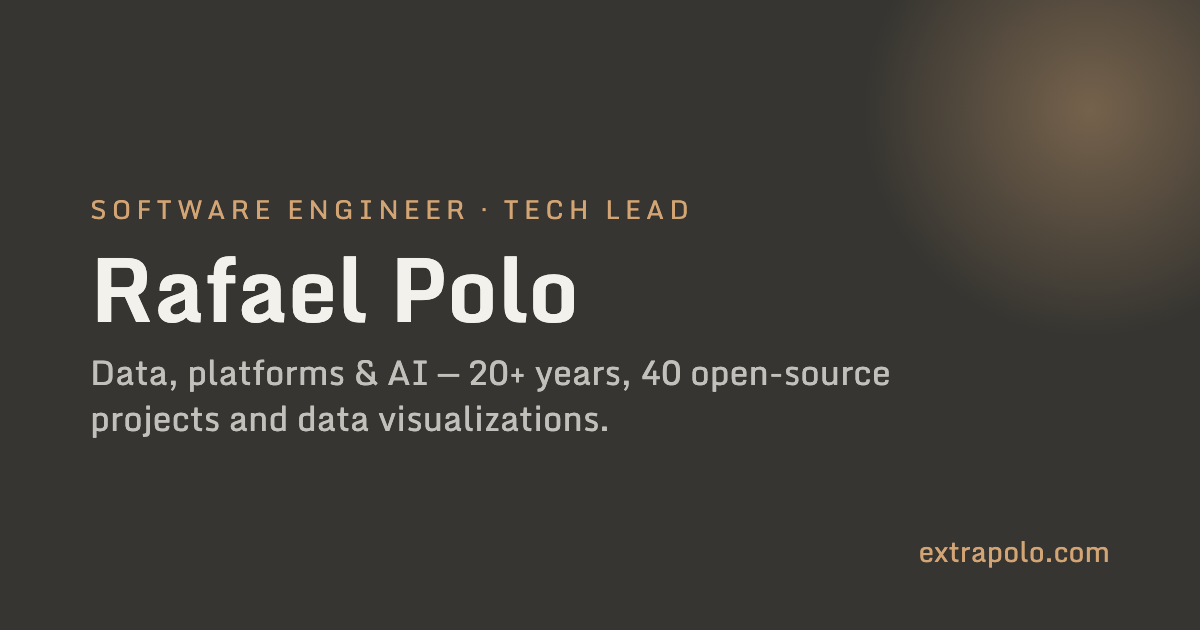
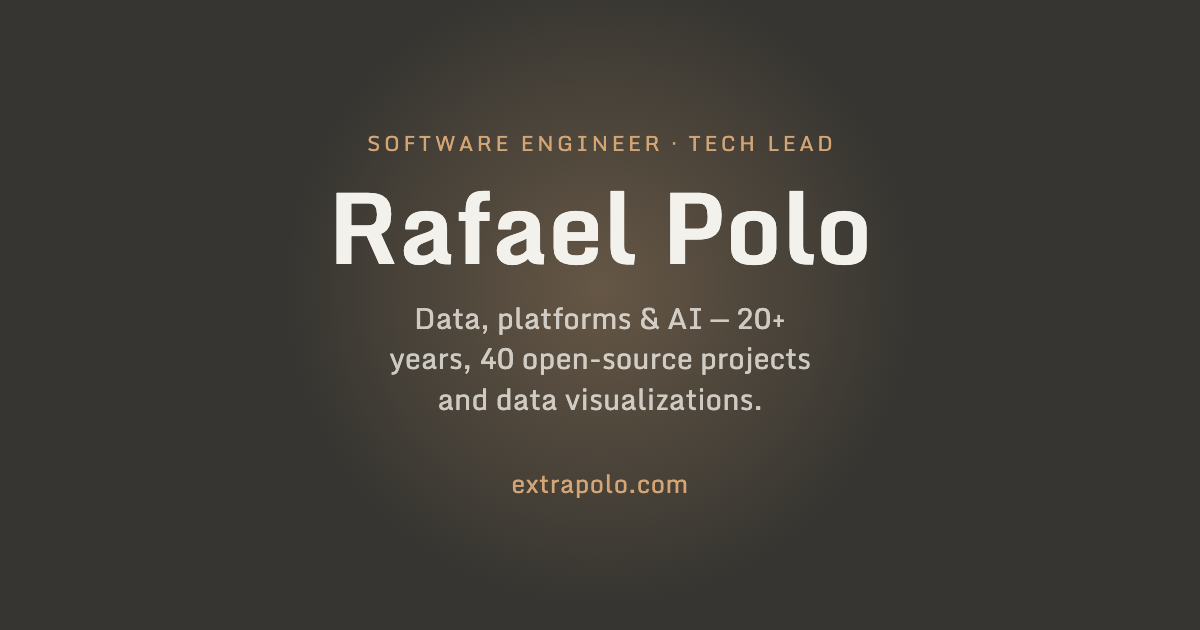
fix: centre share image content so link previews don't crop it

diff --git a/index.html b/index.html
@@ -18,21 +18,21 @@
         <meta property="og:type" content="website" />
         <meta property="og:site_name" content="Rafael Polo" />
         <meta property="og:title" content="Rafael Polo — Software Engineer, Data &amp; AI Platforms" />
-        <meta property="og:description" content="20+ years building data pipelines, full-stack platforms and AI tooling. 40 open-source projects, tools and data visualizations." />
+        <meta property="og:description" content="20+ years building full-stack platforms, data visualizations and pipelines. 40 open-source projects and tools. Now amplified by AI." />
         <meta property="og:url" content="https://extrapolo.com/" />
         <meta property="og:locale" content="en" />
-        <meta property="og:image" content="https://extrapolo.com/img/og.png" />
+        <meta property="og:image" content="https://extrapolo.com/img/og.png?v=2" />
         <meta property="og:image:width" content="1200" />
         <meta property="og:image:height" content="630" />
         <meta property="og:image:alt" content="Rafael Polo — Software Engineer, Data &amp; AI Platforms" />
         <meta name="twitter:card" content="summary_large_image" />
         <meta name="twitter:title" content="Rafael Polo — Software Engineer, Data &amp; AI Platforms" />
-        <meta name="twitter:description" content="20+ years building data pipelines, full-stack platforms and AI tooling. 40 open-source projects, tools and data visualizations." />
-        <meta name="twitter:image" content="https://extrapolo.com/img/og.png" />
+        <meta name="twitter:description" content="20+ years building full-stack platforms, data visualizations and pipelines. 40 open-source projects and tools. Now amplified by AI." />
+        <meta name="twitter:image" content="https://extrapolo.com/img/og.png?v=2" />
 
         <link rel="preload" href="fonts/monda-400.woff2" as="font" type="font/woff2" crossorigin />
         <link rel="preload" href="fonts/monda-700.woff2" as="font" type="font/woff2" crossorigin />
-        <link rel="stylesheet" href="style.css?v=34" />
+        <link rel="stylesheet" href="style.css?v=35" />
 
         <script type="application/ld+json">
             {

diff --git a/curriculum.html b/curriculum.html
@@ -20,7 +20,7 @@
         <meta property="og:description" content="Curriculum vitae of Rafael Polo, Senior Data &amp; Platform Engineer and Tech Lead: 20+ years across data infrastructure, full-stack platforms and AI-powered tools, in Brazil, Germany, Portugal and Switzerland." />
         <meta property="og:url" content="https://extrapolo.com/curriculum.html" />
         <meta property="og:locale" content="en" />
-        <meta property="og:image" content="https://extrapolo.com/img/og.png" />
+        <meta property="og:image" content="https://extrapolo.com/img/og.png?v=2" />
         <meta property="og:image:width" content="1200" />
         <meta property="og:image:height" content="630" />
         <meta property="og:image:alt" content="Rafael Polo — Software Engineer, Data &amp; AI Platforms" />
@@ -29,11 +29,11 @@
         <meta name="twitter:card" content="summary_large_image" />
         <meta name="twitter:title" content="Rafael Polo — CV | Senior Data &amp; Platform Engineer" />
         <meta name="twitter:description" content="Curriculum vitae of Rafael Polo, Senior Data &amp; Platform Engineer and Tech Lead: 20+ years across data infrastructure, full-stack platforms and AI-powered tools, in Brazil, Germany, Portugal and Switzerland." />
-        <meta name="twitter:image" content="https://extrapolo.com/img/og.png" />
+        <meta name="twitter:image" content="https://extrapolo.com/img/og.png?v=2" />
 
         <link rel="preload" href="fonts/monda-400.woff2" as="font" type="font/woff2" crossorigin />
         <link rel="preload" href="fonts/monda-700.woff2" as="font" type="font/woff2" crossorigin />
-        <link rel="stylesheet" href="style.css?v=34" />
+        <link rel="stylesheet" href="style.css?v=35" />
 
         <script type="application/ld+json">
             {

diff --git a/content/og.html b/content/og.html
@@ -1,0 +1,16 @@
+<!doctype html><html><head><meta charset="utf-8"><style>
+@font-face{font-family:Monda;font-weight:400;src:url("../fonts/monda-400.woff2") format("woff2")}
+@font-face{font-family:Monda;font-weight:700;src:url("../fonts/monda-700.woff2") format("woff2")}
+*{box-sizing:border-box;margin:0}
+html,body{width:1200px;height:630px;overflow:hidden}
+body{background:radial-gradient(circle at 50% 46%,rgba(212,165,116,.30),rgba(212,165,116,0) 46%),#363531;font-family:Monda,sans-serif;display:flex;flex-direction:column;align-items:center;justify-content:center;text-align:center;color:#f3f1eb}
+.wrap{width:540px;display:flex;flex-direction:column;align-items:center}
+.k{color:#d4a574;font-size:21px;letter-spacing:.17em;text-transform:uppercase;white-space:nowrap;margin-right:-.17em}
+h1{font-size:98px;line-height:1.08;font-weight:700;white-space:nowrap;margin-top:14px}
+p{text-wrap:balance;font-size:29px;line-height:1.4;color:rgba(243,241,235,.78);margin-top:18px}
+.u{color:#d4a574;font-size:25px;margin-top:44px;letter-spacing:.02em}
+.guide{position:absolute;top:0;left:285px;width:630px;height:630px;outline:2px dashed red;display:none}
+.g .guide{display:block}
+</style></head><body >
+<div class="wrap"><div class="k">Software Engineer · Tech Lead</div><h1>Rafael Polo</h1><p>Data, platforms &amp; AI — 20+ years, 40 open-source projects and data visualizations.</p><div class="u">extrapolo.com</div></div>
+<div class="guide"></div></body></html>
